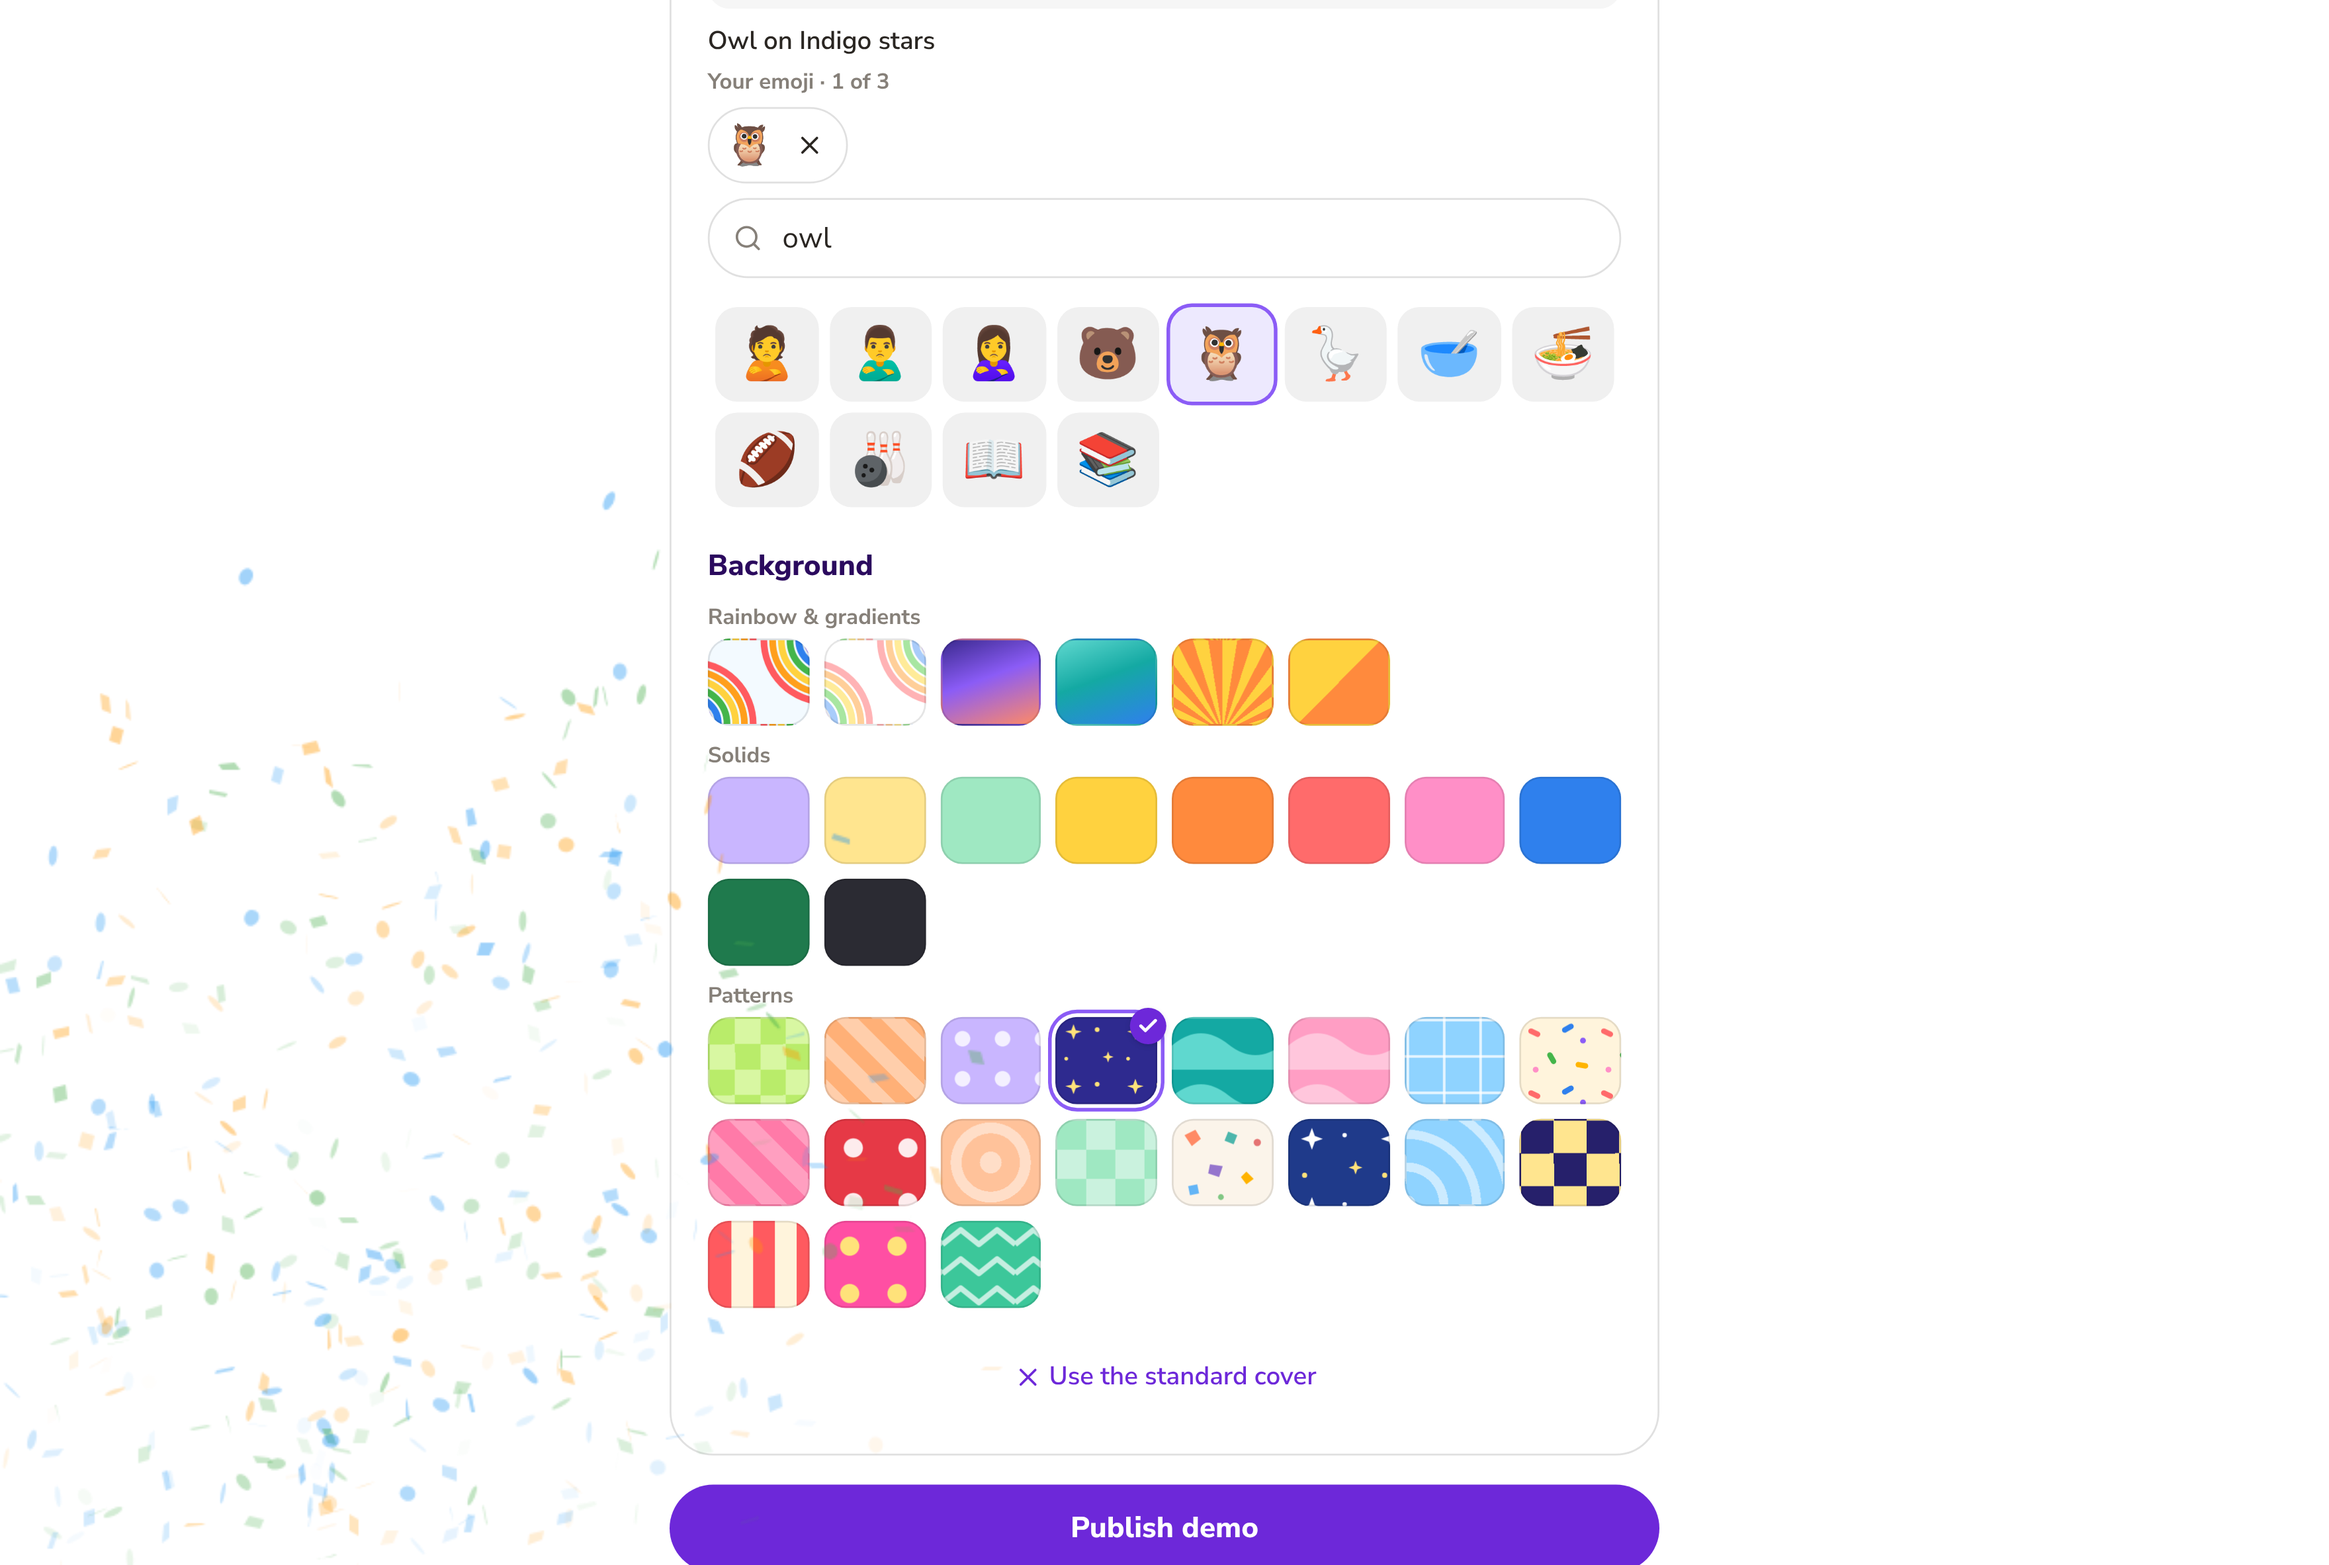
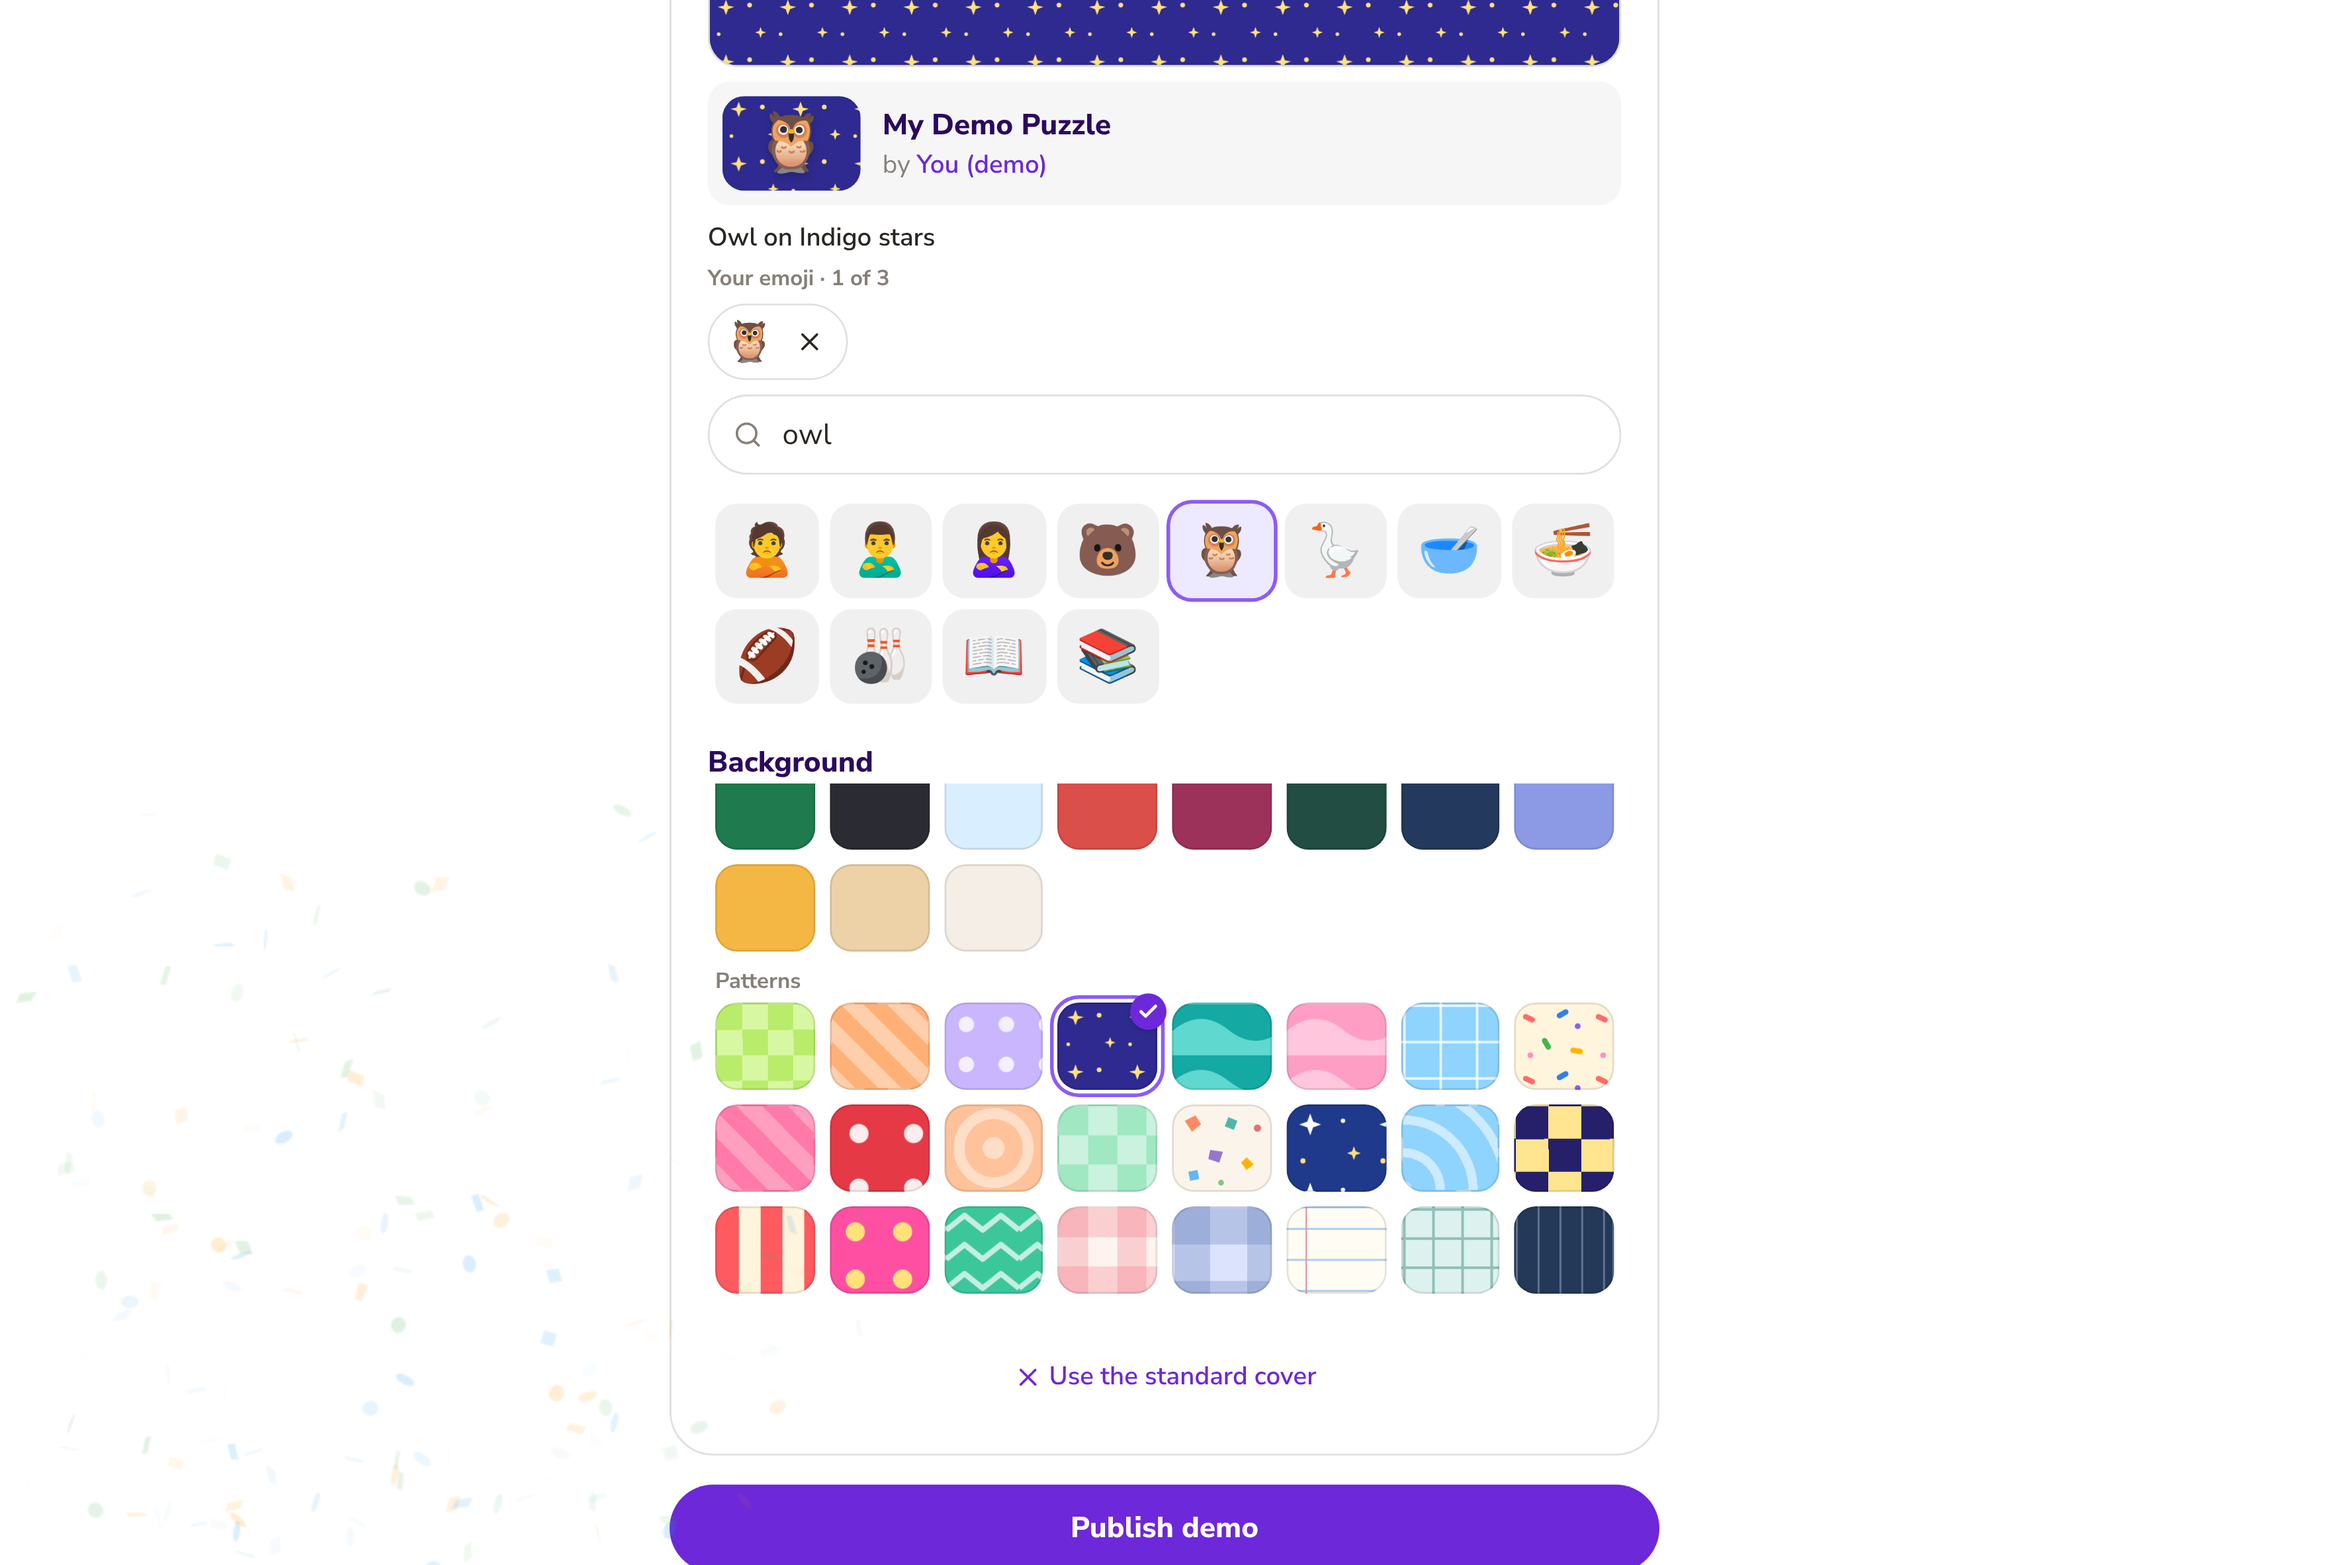
My Puzzles: private demo (Demo Player's own fictional puzzles), release note, layout polish
Claude-Session: https://claude.ai/code/session_01PvbLbik3pLsdrdcnHnWh4C

diff --git a/e2e/showcase/showcase.spec.ts b/e2e/showcase/showcase.spec.ts
@@ -208,7 +208,48 @@ test("shelf to play: Featured, Picks and Newest, then a fictional puzzle played 
   await expect(rating.getByRole("button", { name: "2 stars" })).toHaveAttribute("aria-pressed", "true");
   await expect(rating.getByRole("button", { name: "4 stars" })).toHaveAttribute("aria-pressed", "false");
   await page.keyboard.press("Escape");
+
+  // My Puzzles, from the account area of Settings: the Demo Player's own puzzles, newest first.
+  await page.getByRole("button", { name: "Settings and menu" }).click();
+  await page.getByRole("button", { name: "My Puzzles" }).click();
+  const library = page.getByTestId("my-puzzles");
+  await expect(library).toHaveAttribute("aria-busy", "false");
+  await expect(page.getByTestId("my-puzzles-list").getByRole("heading", { level: 2 })).toHaveText(["Frog Friends", "Secret Santa Swap", "Lantern Festival", "Mixtape Memories"]);
+  const mine = (title: string) => page.getByTestId("my-puzzle").filter({ has: page.getByRole("heading", { name: title, exact: true }) });
+  await expect(mine("Secret Santa Swap").getByTestId("my-puzzle-status")).toHaveText("Private");
+  await expect(mine("Secret Santa Swap").getByRole("button", { name: /^List / })).toHaveCount(0);
+  await expect(mine("Lantern Festival").getByTestId("my-puzzle-status")).toHaveText("In Community");
+  await expect(mine("Mixtape Memories").getByTestId("my-puzzle-status")).toHaveText("Link only");
+  await expect(library).not.toContainText("Pantry Raid");
+  await page.screenshot({ path: path.join(SHOTS, "showcase-phone-390-my-puzzles.png"), fullPage: true, animations: "disabled" });
+  // The older music puzzle gets a cover and goes into Community, then back out.
+  await mine("Mixtape Memories").getByRole("button", { name: "Add a cover for Mixtape Memories" }).click();
+  await page.getByTestId("cover-picker").getByRole("searchbox", { name: "Search emojis" }).fill("headphone");
+  await page.getByTestId("cover-picker").getByRole("option", { name: "headphone", exact: true }).click();
+  await page.getByTestId("cover-picker").getByRole("radio", { name: "Rainbow", exact: true }).click();
+  await page.getByTestId("cover-picker").getByRole("button", { name: "Save Cover" }).click();
+  await expect(mine("Mixtape Memories").getByTestId("my-puzzle-result")).toHaveText("Cover saved.");
+  await mine("Mixtape Memories").getByRole("button", { name: "List Mixtape Memories in Community" }).click();
+  await expect(mine("Mixtape Memories").getByTestId("my-puzzle-status")).toHaveText("In Community");
+  await page.screenshot({ path: path.join(SHOTS, "showcase-phone-390-my-puzzles-listed.png"), fullPage: false, animations: "disabled" });
+  // Now first in Community's Newest, with its new cover.
+  await page.getByRole("link", { name: "Rainbow Categories home" }).click();
+  await expect(panel).toHaveAttribute("aria-busy", "false");
+  const first = page.getByTestId("newest-list").getByTestId("community-card").first();
+  await expect(first.getByTestId("card-title")).toHaveText("Mixtape Memories");
+  await expect(first.locator("[data-cover-kind]")).toHaveAttribute("data-cover-emoji", "1F3A7-FE0F");
+  // Unlist it again from My Puzzles (the preview note links there for the Demo Player).
+  await page.getByTestId("showcase-my-puzzles").click();
+  await expect(library).toHaveAttribute("aria-busy", "false");
+  await mine("Mixtape Memories").getByRole("button", { name: "Unlist Mixtape Memories from Community" }).click();
+  await expect(mine("Mixtape Memories").getByTestId("my-puzzle-status")).toHaveText("Link only");
   await page.getByTestId("showcase-account").click();
+  // A guest gets the sign-in prompt, never the Demo Player's list.
+  await expect(page.getByTestId("my-puzzles-guest")).toBeVisible();
+  await expect(page.getByTestId("my-puzzles-list")).toHaveCount(0);
+  await page.getByRole("link", { name: "Rainbow Categories home" }).click();
+  await expect(panel).toHaveAttribute("aria-busy", "false");
+  await expect(page.getByTestId("newest-list").getByTestId("card-title").first()).not.toHaveText("Mixtape Memories");
 
   // Desktop width too.
   await page.setViewportSize({ width: 1280, height: 860 });

diff --git a/src/pages/MyPuzzles.tsx b/src/pages/MyPuzzles.tsx
@@ -101,8 +101,7 @@ function PuzzleRow({ puzzle, community, onChange }: { puzzle: MyPuzzle; communit
           <h2 id={titleId} className={`text-base font-black leading-tight [overflow-wrap:anywhere] sm:text-[17px] ${cv.ink}`}>{puzzle.title}</h2>
           <p className="mt-1 flex flex-wrap items-center gap-x-2 gap-y-1 text-sm text-muted-foreground">
             <span className={`rounded-full px-2 py-0.5 text-xs font-extrabold ${status.tone}`} data-testid="my-puzzle-status">{status.label}</span>
-            <span className="whitespace-nowrap">{puzzle.mode === "rainbow" ? "Rainbow" : "Classic"}</span>
-            <span className="whitespace-nowrap">Made {dateFmt.format(new Date(puzzle.createdAt))}</span>
+            <span className="whitespace-nowrap">{puzzle.mode === "rainbow" ? "Rainbow" : "Classic"} · Made {dateFmt.format(new Date(puzzle.createdAt))}</span>
           </p>
           <p className="mt-1 text-sm text-muted-foreground" data-testid="my-puzzle-note">{messageFor(puzzle, community)}</p>
         </div>

diff --git a/docs/MY-PUZZLES.md b/docs/MY-PUZZLES.md
@@ -1,0 +1,77 @@
+# My Puzzles (owner library)
+
+`/my-puzzles` lists the signed-in creator's own custom puzzles, so they never
+need to keep a share link to find or manage one. Nothing here edits a puzzle's
+words or categories.
+
+## What it shows
+
+* Every puzzle the account made, newest first: older ones from before covers
+  and Community (never listed, no cover), Public link-only, listed, Private,
+  and any hidden by moderators. Puzzles made while signed out belong to no
+  account and never appear. Another account's puzzles never appear.
+* Per puzzle: cover (or the standard cover), title, a short status (In
+  Community, Link only, Private, Hidden), Classic/Rainbow, the date it was
+  made, and one line saying who can play it and whether it can be listed.
+* Actions, all through calls that already exist:
+  * **Open** (`/p/<code>`) and **Copy Link** (the same short share link);
+  * **Add a cover / Edit cover**: the existing picker and
+    `set_custom_puzzle_cover_emojis`;
+  * **List in Community / Unlist from Community**: the existing
+    `set_custom_puzzle_community_listing`, only for Public, active puzzles.
+    Private and hidden puzzles say why they can't be listed. Opening the page
+    never lists, publishes or changes anything.
+* Hidden puzzles show their status only (their link doesn't open).
+* Empty state points to Create A Puzzle. Favorites stay on their own page.
+* Covers and listing need Community on; with `VITE_COMMUNITY_PUZZLES=off` the
+  page still lists, opens and copies links.
+
+## Ways in
+
+* The account area of Settings ("Settings and menu" → **My Puzzles**, beside
+  Edit Profile and Account) for every signed-in player.
+* With the Friends & Groups beta: the header profile menu (**My puzzles**,
+  under My profile) and a **My Puzzles** link on the My profile screen.
+* The signed-in Account dropdown (**My puzzles**).
+* Create A Puzzle: a **My Puzzles** link in its title bar, and "It's saved in
+  My Puzzles" on the success screen (signed in only).
+
+## Database
+
+One additive migration, `supabase/migrations/0011_my_custom_puzzles.sql`
+(not applied to any hosted database):
+
+* `list_my_custom_puzzles(_limit, _offset)`: owner from `rainbow_uid()` on the
+  server (no user id parameter); `authenticated` only, refused for anon and for
+  a session without a Rainbow account; at most 48 rows per page, offset at most
+  10000; newest first, short code breaking ties. Library fields only: share
+  codes (for Open, Copy Link and the existing owner calls), title, the
+  designer name the owner typed (the cover preview's byline), mode,
+  visibility, hidden/listed/listable, cover keys, created time. Never content,
+  answers, the internal id, `created_by` or account fields.
+* One index, `custom_puzzles_owner_newest_idx`.
+* Rollback: `supabase/ops/my-puzzles/rollback-0011.sql` (drops the function
+  and index; no data touched), then
+  `npx supabase migration repair --status reverted 0011 --linked`.
+
+Release order: apply `0011` first (the live app never calls it), then merge.
+If `0003` is still unapplied in production, apply `0011` alone in the SQL
+editor and record it with
+`npx supabase migration repair --status applied 0011 --linked`, as in
+`docs/COMMUNITY-PUZZLES-RELEASE.md`.
+
+## Checks (local, fictional data)
+
+* `npm run e2e:db:my-puzzles`: additive and reversible; owner-only (another
+  account, a fresh account, a guest, an auth-only session and the anon role
+  get nothing); older/no-cover, link-only, listed, Private and hidden own
+  puzzles, never guest-made ones; newest first; library fields only; bounded,
+  deterministic paging; reading changes nothing.
+* `e2e/community/my-puzzles.spec.ts` on the local stack: guest prompt and
+  server refusal; owner from Settings and the Account menu; the older music
+  puzzle gets a cover, is listed (appears in Community) and unlisted (link
+  still plays); Copy Link and Open; a second account sees only its own and
+  can't change Wren's; empty state → Create; a puzzle made in Create appears
+  first, not listed. Phone (390) and desktop (1280).
+* `src/test/myPuzzles.test.tsx`, `socialHeaderMenu.test.tsx`,
+  `socialControls.test.tsx`: every way in, and defensive reading of rows.
